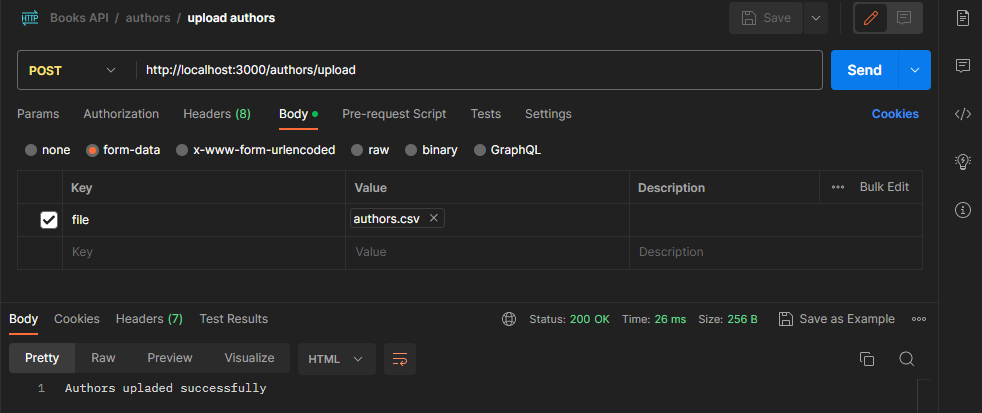
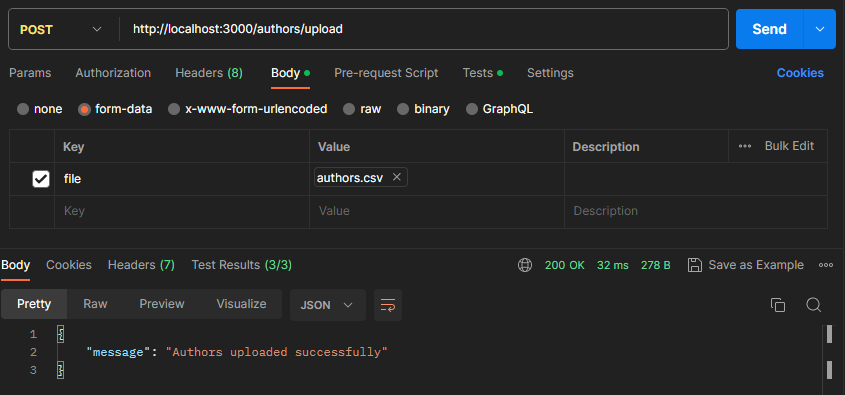
refactor: improve docs, author and books routes

diff --git a/services/authors.js b/services/authors.js
@@ -1,12 +1,12 @@
 const db = require('../infra/db');
 
 function list() {
-  const query = `SELECT author.id, author.author_name as author FROM author ORDER BY author.id`
+  const query = `SELECT author.id, author.author_name as author FROM author ORDER BY author.id`;
   const data = db.query(query);
 
   return {
     data
-  }
+  };
 }
 
 function upload(authors) {
@@ -17,7 +17,7 @@ function upload(authors) {
   for (const author of authors) {
     const inserted = insert(author);
     if (inserted !== 'Author created successfully') {
-      message = inserted
+      message = inserted;
     }
   }
 
@@ -25,7 +25,7 @@ function upload(authors) {
 }
 
 function validate(authors) {
-  const messages = []
+  const messages = [];
 
   if (!authors) {
     messages.push('No authors wss provided');
@@ -44,25 +44,18 @@ function validate(authors) {
 }
 
 function insert(author) {
-  try {
-    insertAuthor(author);
-    return {
-      message: 'Author created successfully'
-    }
-  }
-  catch (err) {
-    throw {
-      status: 400,
-      message: 'Error creating author'
-    };
-  }
+  insertAuthor(author);
+
+  return {
+    message: 'Author created successfully'
+  };
 }
 
 function getAutorId(author) {
-  const query = `SELECT author.id FROM author WHERE author.author_name = '${author}'`
+  const query = `SELECT author.id FROM author WHERE author.author_name = '${author}'`;
   const data = db.query(query);
 
-  return  data.length === 1 ? data[0].id : null;
+  return data.length === 1 ? data[0].id : null;
 }
 
 function insertAuthor(author) {
@@ -73,10 +66,18 @@ function insertAuthor(author) {
     };
   }
 
-  const name = author.replace(/(\r\n|\n|\r)/gm, "")
-  const result = db.run('INSERT INTO author (author_name) VALUES (@name)', { name });
+  try {
+    const name = author.replace(/(\r\n|\n|\r)/gm, "");
+    const result = db.run('INSERT INTO author (author_name) VALUES (@name)', { name });
 
-  return result.lastInsertRowid;
+    return result.lastInsertRowid;
+  }
+  catch {
+    throw {
+      status: 400,
+      message: 'Error creating author'
+    };
+  }
 }
 
 module.exports = {

diff --git a/routes/authors.js b/routes/authors.js
@@ -29,20 +29,20 @@ router.post('/upload', function (req, res, next) {
         error.statusCode = 400;
         throw error;
       }
-      const items = data.split('\n')
-      result = authors.upload(items)
-  
+
+      const items = data.split('\n');
+      result = authors.upload(items);
     });
 
-    res.send('Authors upladed successfully');
+    res.json({ "message": 'Authors uploaded successfully' });
   });
 });
 
 /* POST author */
-router.post('/', function(req, res, next) {
+router.post('/', function (req, res, next) {
   try {
     res.json(authors.insert(req.body.name));
-  } catch(err) {
+  } catch (err) {
     next(err);
   }
 });

diff --git a/routes/books.js b/routes/books.js
@@ -35,7 +35,6 @@ router.delete('/:id', function(req, res, next) {
   try {
     res.json(books.delete(req.params.id));
   } catch(err) {
-    console.error(`Error while deleting book `, err.message);
     next(err);
   }
 });

diff --git a/docs/MVP-04.md b/docs/MVP-04.md
@@ -20,7 +20,40 @@ Deliveries:
 
 ## Postman request
 
-### Postman request - error no author name
+
+### POST - insert author
+
+curl:
+
+``` bash
+curl --location 'http://localhost:3000/authors/' \
+--header 'Content-Type: application/json' \
+--data '{
+    "name": "Nome do autor"
+}'
+```
+
+![Postman post author](./images/mvp-04-post.PNG "Postman post author")
+
+#### Postman tests
+
+``` javascript
+const result = pm.response.json();
+
+pm.test("On success - it should return status code 200", () => {
+    pm.expect(pm.response.code).to.equal(200);
+});
+
+pm.test("On success - it should return message on result", () => {
+    pm.expect(result.message).to.exist;
+});
+
+pm.test("On success - it should return successfully message", () => {
+    pm.expect(result.message).to.equal("Author created successfully");
+});
+```
+
+### POST - error no author name
 
 ``` bash
 curl --location 'http://localhost:3000/authors/' \
@@ -43,7 +76,7 @@ curl --location 'http://localhost:3000/authors/' \
 ``` javascript
 const result = pm.response.json();
 
-pm.test("On success - it should return status code 200", () => {
+pm.test("On success - it should return status code 400", () => {
     pm.expect(pm.response.code).to.equal(400);
 });
 
@@ -56,7 +89,7 @@ pm.test("On success - it should return successfully message", () => {
 });
 ```
 
-### Postman request - error duplicated author
+### POST - error duplicated author
 
 ``` bash
 curl --location 'http://localhost:3000/books'
@@ -69,7 +102,7 @@ curl --location 'http://localhost:3000/books'
 ``` javascript
 const result = pm.response.json();
 
-pm.test("On success - it should return status code 200", () => {
+pm.test("On success - it should return status code 400", () => {
     pm.expect(pm.response.code).to.equal(400);
 });
 
@@ -78,6 +111,6 @@ pm.test("On success - it should return message on result", () => {
 });
 
 pm.test("On success - it should return successfully message", () => {
-    pm.expect(result.message).to.equal("Missing author name");
+    pm.expect(result.message).to.equal("Error creating author");
 });
 ```

diff --git a/docs/MVP-03.md b/docs/MVP-03.md
@@ -21,6 +21,8 @@ Deliveries:
 
 ## Postman request
 
+### POST - upload authors
+
 CSV file sample
 
 ``` text
@@ -42,7 +44,7 @@ curl --location 'http://localhost:3000/authors/upload' \
 
 ![Postman post upload authors](./images/mvp-03-post-upload.PNG "Postman post upload authors")
 
-### Before authors insertion
+#### After authors insertion
 
 curl:
 
@@ -51,3 +53,21 @@ curl --location 'http://localhost:3000/authors'
 ```
 
 ![Postman get all authors](./images/mvp-03-get-all.PNG "Postman get all authors")
+
+#### Postman tests
+
+``` javascript
+const result = pm.response.json();
+
+pm.test("On success - it should return status code 200", () => {
+    pm.expect(pm.response.code).to.equal(200);
+});
+
+pm.test("On success - it should return message on result", () => {
+    pm.expect(result.message).to.exist;
+});
+
+pm.test("On success - it should return successfully message", () => {
+    pm.expect(result.message).to.equal("Authors uploaded successfully");
+});
+```

diff --git a/docs/MVP-05.md b/docs/MVP-05.md
@@ -80,7 +80,7 @@ curl --location 'http://localhost:3000/books' \
 ``` javascript
 const result = pm.response.json();
 
-pm.test("On success - it should return status code 200", () => {
+pm.test("On success - it should return status code 400", () => {
     pm.expect(pm.response.code).to.equal(400);
 });
 
